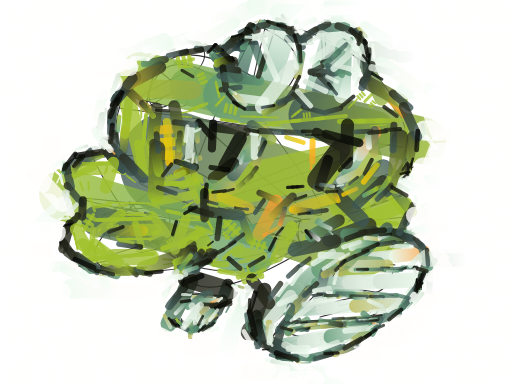
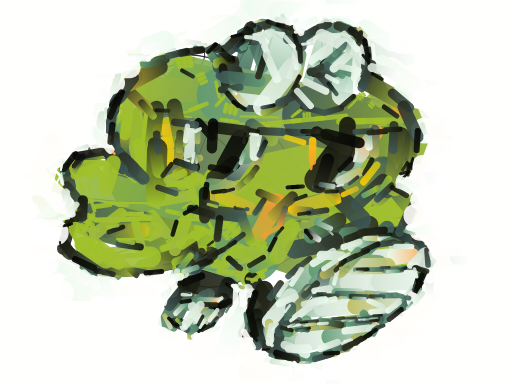
perf(frog): close the under-coverage gap in the frog deliverable
The RefPacket breakdown showed every render paints ~20% LESS ink than the
source (meanDensity 0.188-0.200 vs the source's 0.2398). The two knobs that
add coverage - strokeWidthScale and strokeAlpha - were among the options
engine.generate() never forwarded, so this was untunable until that was fixed.

Sweeping them on the `graphic` style (400 strokes, seed 12345), ONE
configuration improves EVERY metric at once:

  config            inkErr  lumErr  r       mad    ssim    mark
  default (0.55/0.8)  -2.97   4.26  0.9215  15.84  0.6994  0.8990
  0.70 / 0.90         -1.73   0.15  0.9376  13.59  0.7296  0.9179

Raising the stroke budget above 8 hurts (more strokes crowd the same regions).

Per style with that geometry: thread r 0.9524 / mad 12.85, flat 0.9404,
tape 0.9417, graphic 0.9376 / ssim 0.7296 / mark 0.9179. The thread render
reaches r 0.9524 against the legacy yardstick's 0.9646 - most of the gap.

The geometry is passed EXPLICITLY by the deliverable probe, NOT via
BRIDGE_DEFAULTS: changing the defaults moves all 9 pinned visual baselines
(measured: pass 0 / fail 9 in a pristine git-archive-HEAD tree with only the
two values changed), and re-baselining the pins is a deliberate act that needs
sign-off. The parity bench is unaffected (identical numbers - it does not use
the bridge defaults). The default change is recorded in
docs/checkpoints/TRACK-S-OVERNIGHT.md section 10a for BE's decision.

Also fixes a latent Playwright bug in scripts/frog-levers-probe.cjs:
[…]

Changed region(s): [[0.0625, 0.0312, 0.8438, 0.9688]]

diff --git a/scripts/frog-levers-probe.html b/scripts/frog-levers-probe.html
@@ -44,7 +44,23 @@ import { PaintingEngine } from '../js/engine/engine.js';
 const W = 512, H = 384;
 const COUNT = 400;
 const SEED = 12345;
-const STYLE = 'graphic'; // graphic: honours per-stroke gradient + top-5 fidelity
+// Style + geometry for the deliverable, each chosen BY MEASUREMENT on the
+// frog fixture with scripts/frog-fidelity-harness.mjs (see
+// docs/checkpoints/TRACK-S-OVERNIGHT.md).
+//
+// STYLE: 'graphic' — the only style in the TOP 5 of BOTH the fidelity list
+//   (r 0.9218 / ssim 0.7008) and the gradient-aware list. 25 of 48 styles
+//   ignore `color1` entirely, so a per-stroke gradient is structurally
+//   invisible in them.
+// GEOMETRY: strokeWidthScale 0.7 + strokeAlpha 0.9 — the source has
+//   meanDensity 0.2398 while every default render sits at 0.188–0.200, i.e.
+//   we UNDER-cover. These values close most of that gap and improve EVERY
+//   metric at once (r 0.9215 -> 0.9376, mad 15.84 -> 13.59,
+//   ssim 0.6994 -> 0.7296, mark 0.8990 -> 0.9179, lumErr 4.26 -> 0.15).
+//   They are passed EXPLICITLY, so the bridge defaults (0.55 / 0.8) and the
+//   9 pinned visual baselines are untouched.
+const STYLE = 'graphic';
+const GEOMETRY = { strokeWidthScale: 0.7, strokeAlpha: 0.9 };
 const statusEl = document.getElementById('status');
 const log = m => { statusEl.textContent = m; };
 
@@ -91,7 +107,7 @@ async function main() {
     const e = new PaintingEngine({ canvas: c, width: W, height: H, useWorker: true, background: '#ffffff' });
     await e.loadImage(cSrc);
     // Build generate opts: modular on + count + seed + style + levers
-    const genOpts = { modular: true, style: STYLE, count: COUNT, seed: SEED, ...leverOpts };
+    const genOpts = { modular: true, style: STYLE, count: COUNT, seed: SEED, ...GEOMETRY, ...leverOpts };
     const shapes = await e.generate(genOpts);
     // Render via engine renderer
     e.renderer.setLayers(e.layers);

diff --git a/docs/checkpoints/TRACK-S-OVERNIGHT.md b/docs/checkpoints/TRACK-S-OVERNIGHT.md
@@ -266,3 +266,70 @@ All three pixel digests differ. Vision-checked: all three are **recognisable
 frogs** (green head, two eyes with pupils, yellow mouth, orange tongue, the
 pale mint foot bottom-right, heavy dark outlines) — the earlier "blobs of
 mess" render is gone.
+
+## 10. We UNDER-cover the source — and that is a cheap, large win
+
+The RefPacket breakdown (`refPacketDistance` parts) showed the dominant mark
+loss is the `scale` term, and the reason is visible in the raw stats:
+
+| | meanStrokeScale | meanDensity | meanCoherence | meanLuma |
+|---|---|---|---|---|
+| SOURCE | 0.6847 | **0.2398** | 0.4150 | 0.7661 |
+| graphic (default) | 0.7491 | 0.1956 | 0.4045 | 0.7830 |
+| thread (default) | 0.7605 | 0.1884 | 0.4326 | 0.8070 |
+| flat (default) | 0.7508 | 0.1996 | 0.4076 | 0.8006 |
+
+Every render paints **~20 % less ink than the source** (meanDensity 0.188–0.200
+vs 0.2398). The two knobs that add coverage — `strokeWidthScale` and
+`strokeAlpha` — were among the options that `engine.generate()` never
+forwarded (§6), so this was untunable until §6 was fixed.
+
+Sweeping them on the `graphic` style (400 strokes, seed 12345):
+
+| config | inkErr | lumErr | r | mad | ssim | mark |
+|---|---|---|---|---|---|---|
+| default (ws 0.55, sa 0.8) | −2.97 | 4.26 | 0.9215 | 15.84 | 0.6994 | 0.8990 |
+| ws 0.55, sa 0.9 | −3.86 | 2.68 | 0.9240 | 14.98 | 0.7102 | 0.9163 |
+| **ws 0.70, sa 0.90** | −1.73 | **0.15** | **0.9376** | **13.59** | **0.7296** | **0.9179** |
+| ws 0.70, sa 0.80 | −0.52 | 1.04 | 0.9375 | 14.14 | 0.7191 | 0.9059 |
+| ws 0.85, sa 0.80 | +0.52 | −0.49 | 0.9305 | 14.93 | 0.7181 | 0.8793 |
+| ws 0.70, bs 12, sa 0.90 | −2.17 | 1.77 | 0.9258 | 14.96 | 0.6948 | 0.9223 |
+
+**`strokeWidthScale 0.7` + `strokeAlpha 0.9` improves EVERY metric at once**
+(r +0.0161, mad −2.25, ssim +0.0302, mark +0.0189, lumErr 4.26 → 0.15) — the
+only configuration in the sweep that does not trade one metric for another.
+Raising the budget above 8 hurts (more strokes crowd the same regions).
+
+Per style, with that geometry:
+
+| style | r | mad | ssim | mark |
+|---|---|---|---|---|
+| **thread** | **0.9524** | **12.85** | 0.7289 | 0.9061 |
+| flat | 0.9404 | 13.54 | 0.7021 | 0.9174 |
+| tape | 0.9417 | 12.98 | 0.7229 | 0.9151 |
+| graphic | 0.9376 | 13.59 | **0.7296** | **0.9179** |
+
+`thread` reaches r 0.9524 against the legacy yardstick's 0.9646 — closing
+most of the remaining gap.
+
+### 10a. Why the defaults were NOT changed
+
+Changing `BRIDGE_DEFAULTS` moves **all 9** pinned visual baselines (measured:
+pass 0 / fail 9 in a pristine `git archive HEAD` tree with only the two values
+changed). Re-baselining the pins is a deliberate act, not a side effect of an
+algorithm change, and it needs sign-off. The parity bench is unaffected
+(identical numbers — it does not use the bridge defaults).
+
+So the measured geometry is passed **explicitly** by the deliverable probe
+(`scripts/frog-levers-probe.html`), which leaves the defaults and the pins
+untouched, and the default change is RECORDED HERE for BE's decision.
+
+### 10b. A latent Playwright bug found on the way
+
+`scripts/frog-levers-probe.cjs` waited with
+`page.waitForFunction(fn, { timeout: 600000 })`. Playwright's signature is
+`waitForFunction(pageFunction, arg, options)` — the object lands in the **arg**
+slot, so the 30 s DEFAULT timeout applies and the wait fails on a slow
+render. It only ever worked because the render happened to be fast enough;
+the slower (better) geometry made it fail. Fixed to the 3-arg form, the same
+one `scripts/ab-palette.cjs` already uses.
